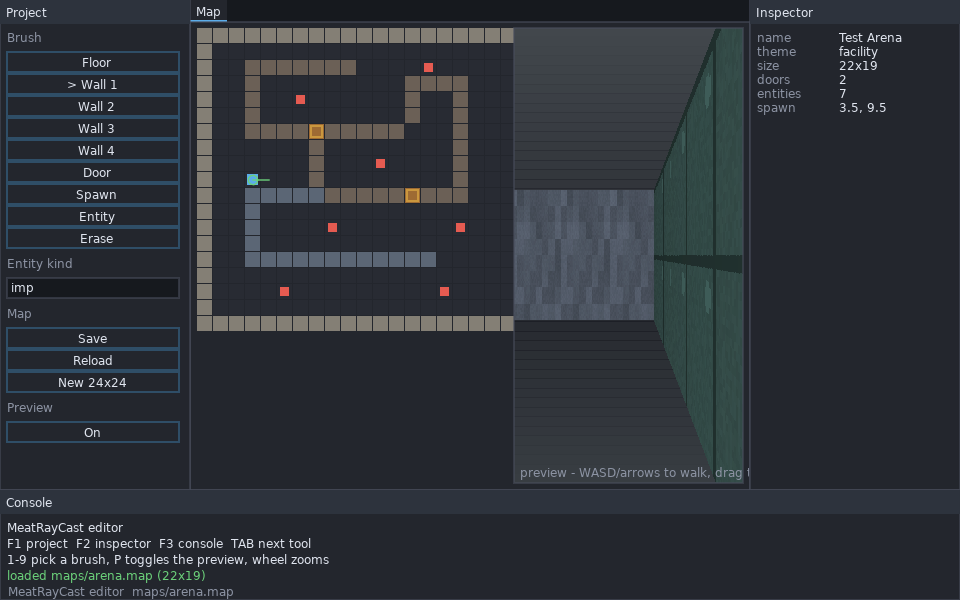
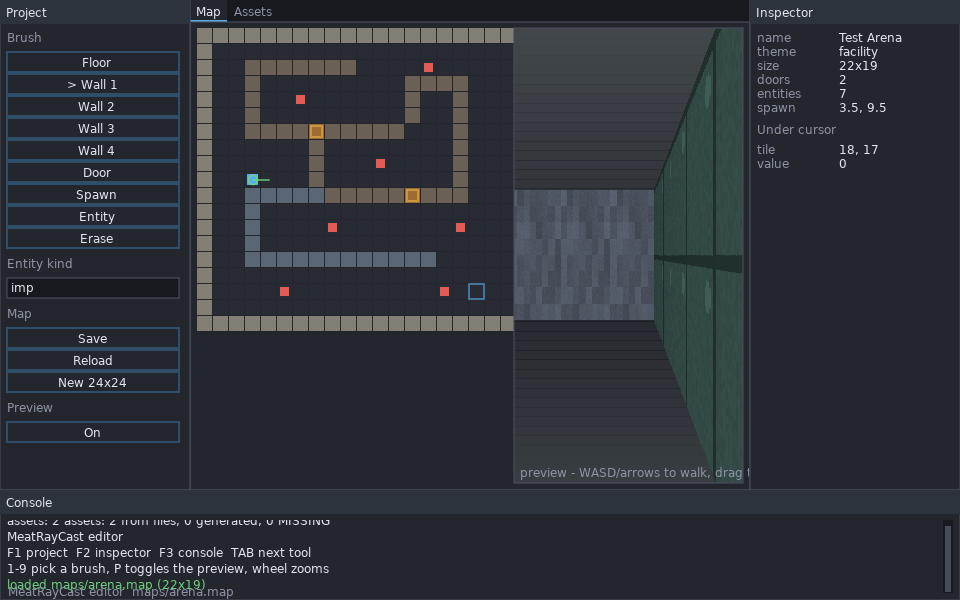
Register the asset browser, and stop the shell swallowing panel errors
The asset panel is now a tab beside the map editor.

The shell fix matters more than the wiring. drawSidebar and drawInspector ran in
bare pcalls, so a panel that threw did not report an error -- the region just came
up empty, and the symptom read as 'the inspector stopped showing things'. That
exact shape cost real time: Font:getWrap returns (width, lines-table) rather than a
count, and multiplying the table threw inside an inspector whose failure was
swallowed, so the visible effect was the rest of the panel vanishing precisely when
an asset had a problem. Failures now draw in place and log once per panel per hook,
since a console line every frame is its own kind of useless.

README's 'what this is not' section claimed no audio, no asset import and no
editor. All three now exist, so it said the opposite of the truth; corrected, along
with assertion counts across three files.

2289 headless assertions, 134 selftest, luacheck clean.

diff --git a/README.md b/README.md
@@ -42,7 +42,7 @@ love . --browse                 list servers on the LAN and exit
 love . --netcheck               is UDP usable on this machine at all?
 ```
 
-Tests: `luajit tests/run_all.lua` — 1966 assertions, no LÖVE required.
+Tests: `luajit tests/run_all.lua` — 2289 assertions, no LÖVE required.
 Network acceptance: `powershell -File scripts/nettest.ps1` — a dedicated server
 and two clients as separate processes, asserting over real UDP.
 
@@ -136,13 +136,15 @@ entity i imp
 Honest scope. These are phases in [`docs/ROADMAP.md`](docs/ROADMAP.md), not
 oversights:
 
-- **No audio** and no asset import — textures and sprites are procedural only.
-- **No editor yet**, so maps are hand-edited text for now. The GUI toolkit it will
-  be built on exists (`meatray/ui/`, with the geometry unit-tested), but the editor
-  shell, map editor, code browser, asset browser and sprite painter are still
-  ahead — see [`docs/EDITOR.md`](docs/EDITOR.md). That is also why there is no
-  server *browser*: LAN discovery works and `love . --browse` prints the list, but
-  drawing it needs the shell.
+- **Assets are optional, and that is the point.** PNG sheets and WAV audio import,
+  with positional playback. Every lookup that misses falls back to a generated
+  placeholder rather than erroring, so a project with no assets runs and one with
+  half its assets shows which half. The repo itself still ships no media.
+- **The editor exists but is partial.** `love . --editor [map]` opens a docked
+  workspace with the map editor and asset browser; the code browser and sprite
+  painter are still ahead — see [`docs/EDITOR.md`](docs/EDITOR.md). There is also
+  no server *browser* yet: LAN discovery works and `love . --browse` prints the
+  list, but drawing it in the shell is still to come.
 - **Networking works, with three named gaps.** Listen and dedicated hosting, real
   UDP over `lua-enet`, host-authoritative snapshots, local-player prediction, LAN
   discovery, passwords, kick and ban are all implemented and tested. **Not
@@ -166,7 +168,7 @@ meatray/ui/       immediate-mode widgets with a real clip stack; rect.lua is
                   love-free so the clip/dock/hit maths is unit-tested
 meatray/init.lua  public API (render modules load lazily so headless still works;
                   so does meatray.net, which needs no love at all)
-tests/            1966 assertions under plain LuaJIT
+tests/            2289 assertions under plain LuaJIT
 selftest.lua      graphics-context gate: renders, reads pixels back, writes
                   reference images
 nettest.lua       headless networked client that asserts across the wire

diff --git a/docs/NETWORKING.md b/docs/NETWORKING.md
@@ -425,7 +425,7 @@ handshake and neither is:
 
 ## How this was verified
 
-- **1966 headless assertions** under plain LuaJIT, no LÖVE and no sockets
+- **2289 headless assertions** under plain LuaJIT, no LÖVE and no sockets
   (`luajit tests/run_all.lua`). Six of the fourteen suites are networking: the
   wire format, the transport interface and loopback backend, replication end to
   end through a real host and a real client, access control plus diagnostics, the
